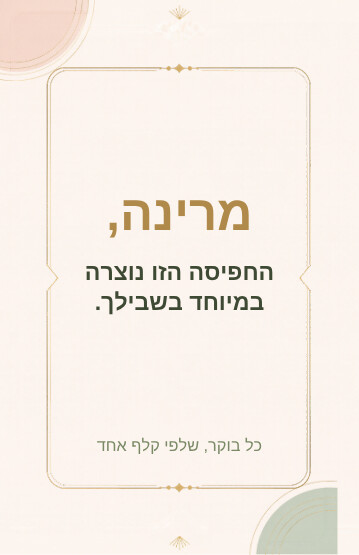
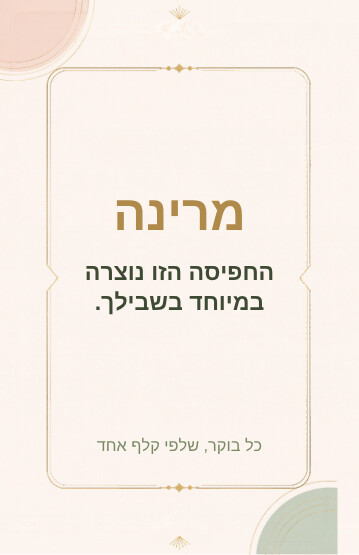
קלף 1 בלי פסיק אחרי השם
Claude-Session: https://claude.ai/code/session_01KW3gsSwdfbtfKphA9tGgPv

Changed region(s): [[0.3064, 0.3369, 0.5209, 0.4288], [0.5515, 0.3369, 0.7047, 0.4288]]

diff --git a/index.html b/index.html
@@ -242,7 +242,7 @@ body::after {
   document.documentElement.dir = "rtl";
 
   const TEXTS = {
-    1: "מרינה,\nהחפיסה הזו נוצרה במיוחד בשבילך.\nכל בוקר, שלפי קלף אחד",
+    1: "מרינה\nהחפיסה הזו נוצרה במיוחד בשבילך.\nכל בוקר, שלפי קלף אחד",
     2: "הכי יפה זה כשמישהי נשארת נאמנה לעצמה",
     3: "תחגגי את הניצחונות הקטנים",
     4: "הסקרנות שלך היא הכוח שלך",
